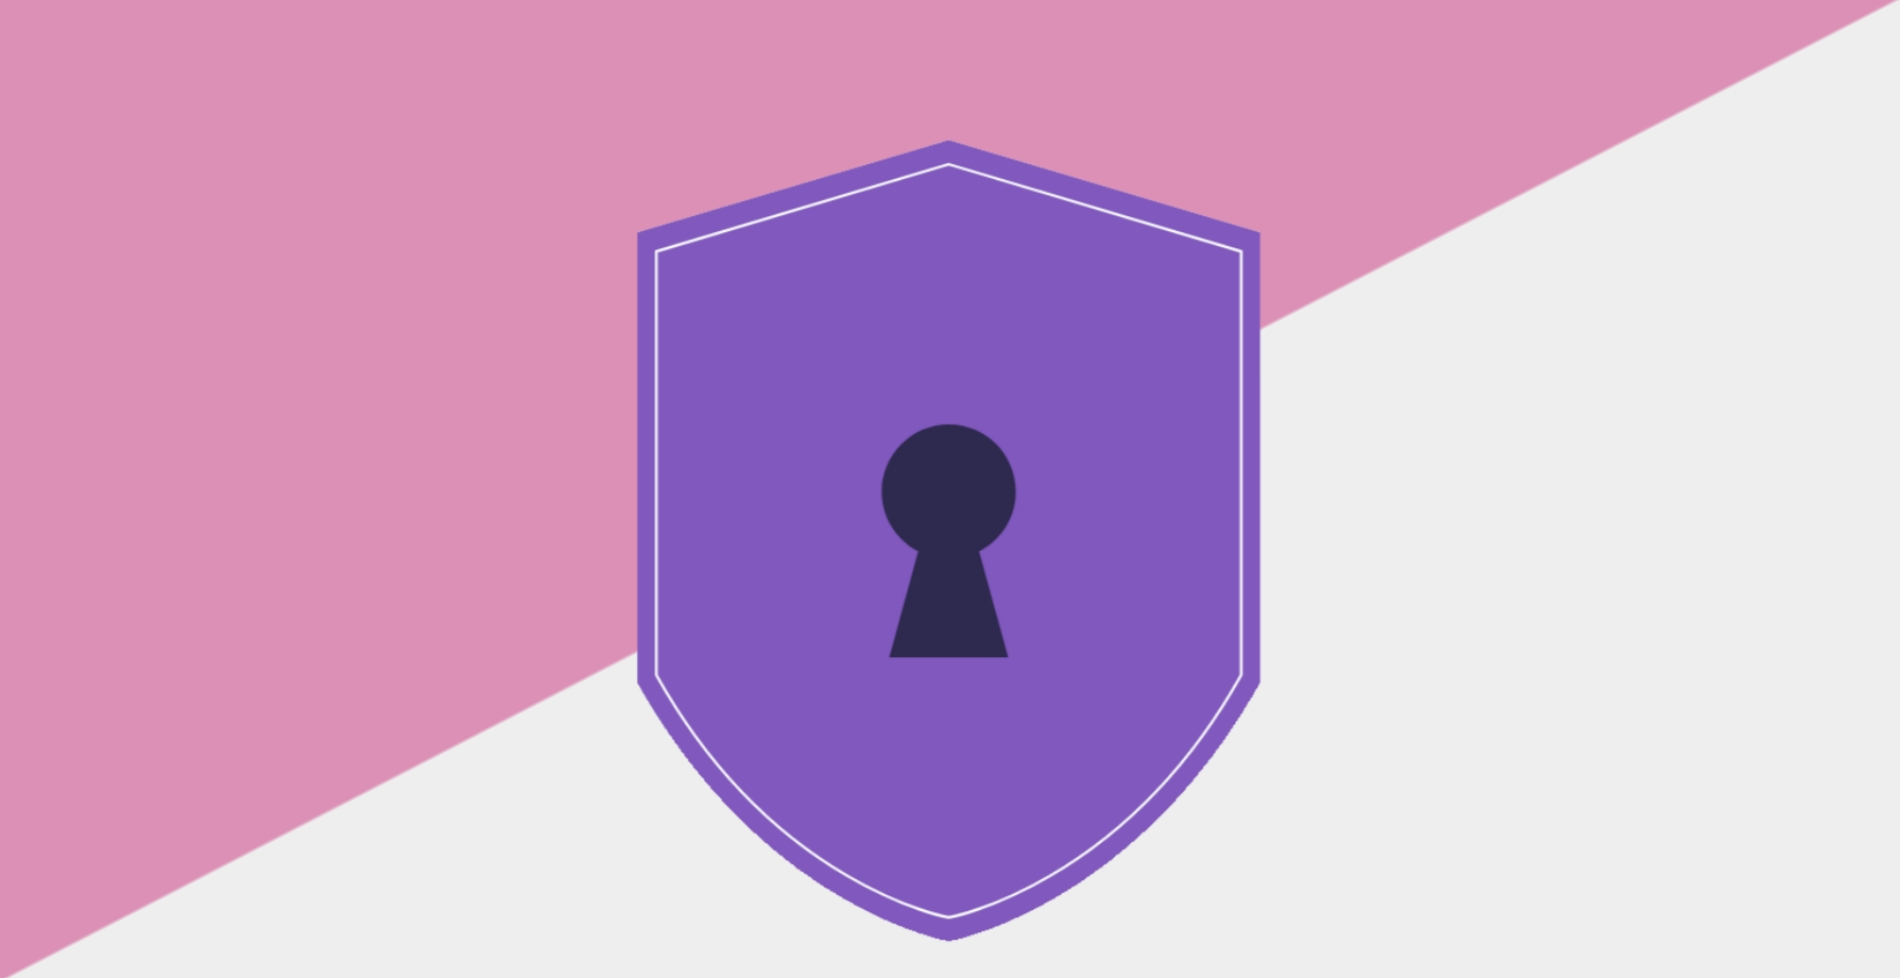
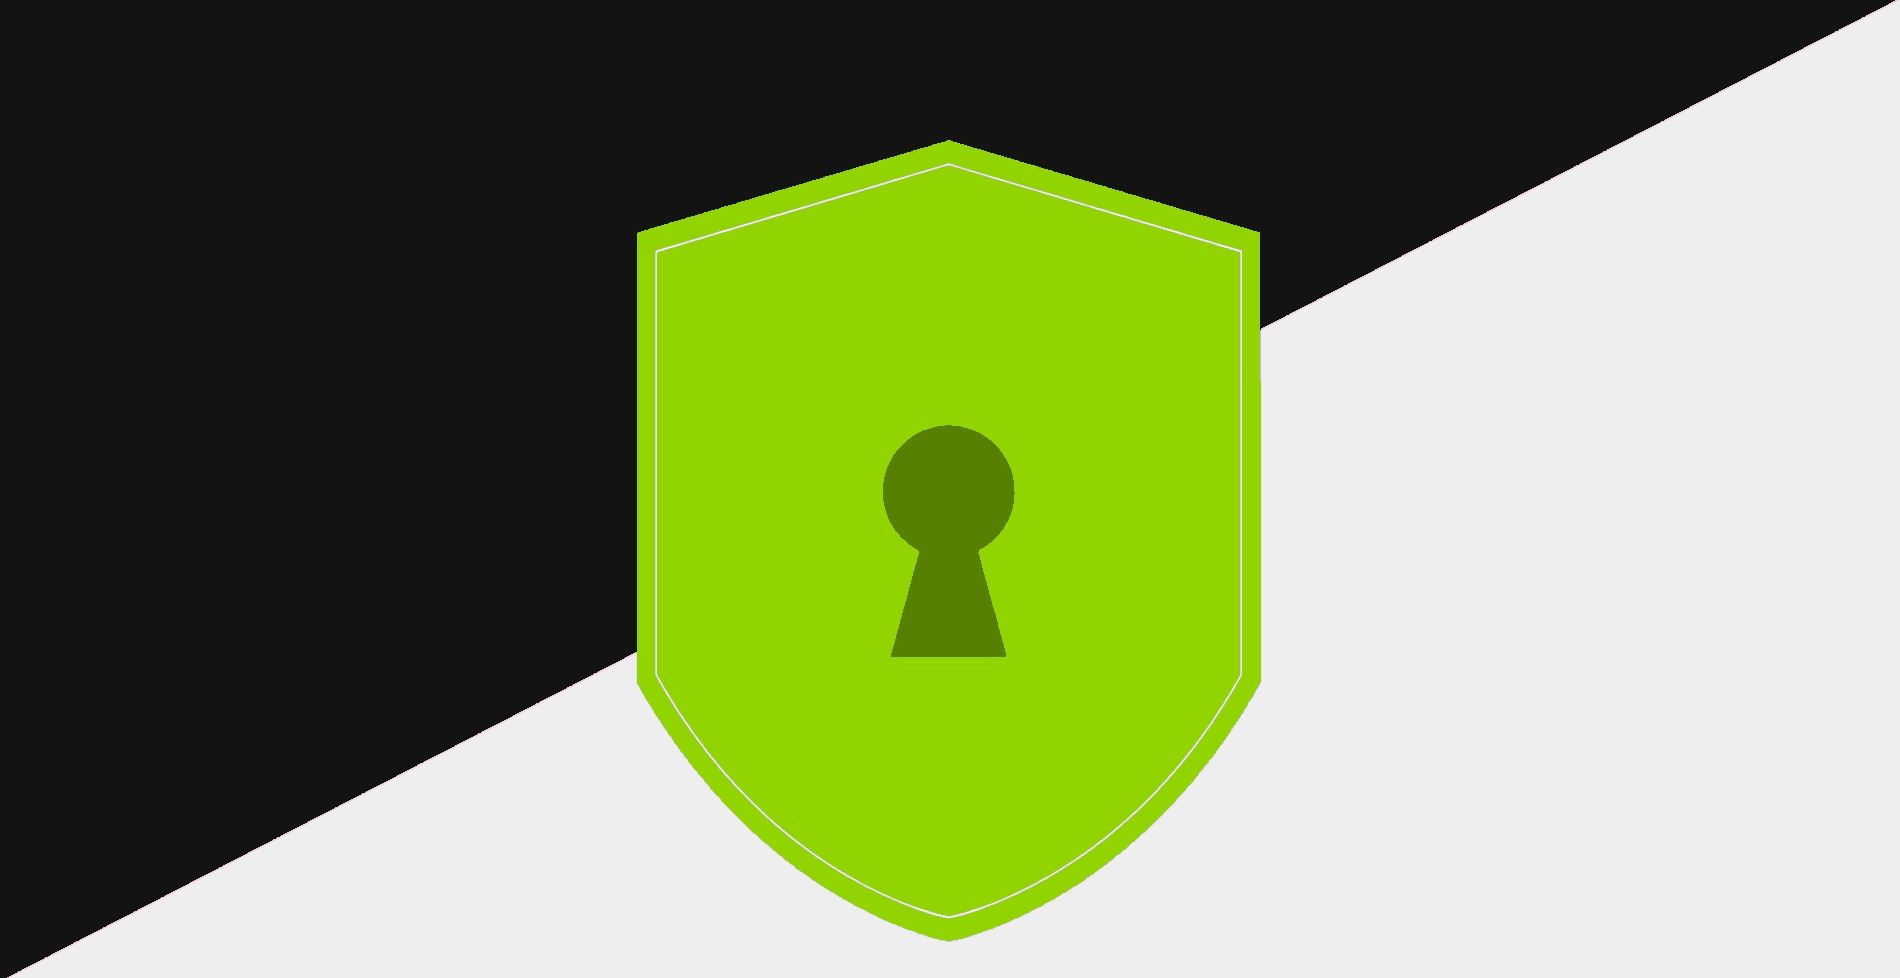
homepage color changes

diff --git a/project website/css/style.css b/project website/css/style.css
@@ -12,10 +12,10 @@ a {
   -webkit-transition: .3s all ease;
   -o-transition: .3s all ease;
   transition: .3s all ease;
-  color: #8058be; }
+  color: #92d400; }
   a:hover {
     text-decoration: none;
-    color: #8058be; }
+    color: #92d400; }
 
 h1, h2, h3, h4, h5,
 .h1, .h2, .h3, .h4, .h5 {
@@ -24,7 +24,7 @@ h1, h2, h3, h4, h5,
   color: #000; }
 
 .text-primary {
-  color: #8058be !important; }
+  color: #92d400 !important; }
 
 
 .ftco-navbar-light {
@@ -111,7 +111,7 @@ h1, h2, h3, h4, h5,
       padding-bottom: 0.7rem !important;
       color: #000 !important; }
       .ftco-navbar-light.scrolled .nav-link.active {
-        color: #8058be !important; }
+        color: #92d400 !important; }
     .ftco-navbar-light.scrolled.awake {
       margin-top: 0px;
       -webkit-transition: .3s all ease-out;
@@ -156,7 +156,7 @@ h1, h2, h3, h4, h5,
       bottom: 0;
       left: 0;
       right: 0;
-      background: #8058be;
+      background: #92d400;
       height: 2px;
       content: " "; }
   .ftco-cover.overlay {
@@ -220,12 +220,12 @@ h1, h2, h3, h4, h5,
     -webkit-box-shadow: none;
     box-shadow: none; }
   .btn.btn-primary {
-    background: #8058be;
-    border-color: #8058be;
+    background: #92d400;
+    border-color: #92d400;
     color: #fff; }
     .btn.btn-primary:hover, .btn.btn-primary:focus, .btn.btn-primary:active {
-      border-color: #6940a5;
-      background: #6940a5; }
+      border-color: #7ab300;
+      background: #7ab300; }
   .btn.btn-outline-white {
     border-color: rgba(255, 255, 255, 0.2);
     background: none; }
@@ -267,7 +267,7 @@ textarea {
   visibility: hidden; }
 
 .bg-primary {
-  background: #8058be !important; }
+  background: #92d400 !important; }
 
   .ftco-section .ftco-heading,
   .ftco-footer .ftco-heading {
@@ -296,7 +296,7 @@ textarea {
   .ftco-footer a {
     color: rgba(255, 255, 255, 0.3); }
     .ftco-footer a:hover {
-      color: #8058be; }
+      color: #92d400; }
   .ftco-footer .ftco-heading {
     font-size: 24px; }
   .ftco-footer .ftco-heading-2 {
@@ -313,7 +313,7 @@ textarea {
     font-size: 14px;
     margin-top: -16px;
     right: 0;
-    background: #8058be;
+    background: #92d400;
     color: #fff;
     padding: 2px 10px;
     position: absolute;
@@ -367,12 +367,12 @@ textarea {
   .footer-small-nav > li a {
     margin: 0 10px 10px 0; }
     .footer-small-nav > li a:hover, .footer-small-nav > li a:focus {
-      color: #8058be; }
+      color: #92d400; }
 
 .media .ftco-icon {
   width: 100px; }
   .media .ftco-icon span {
-    color: #8058be; }
+    color: #92d400; }
 
 .ftco-media {
   background: #fff;
@@ -406,7 +406,7 @@ textarea {
     .ftco-owl .owl-nav .owl-next {
       position: absolute;
       font-size: 30px;
-      background: #8058be;
+      background: #92d400;
       color: #fff;
       padding: 10px;
       line-height: 0; }
@@ -429,7 +429,7 @@ textarea {
         display: inline-block;
         margin: 5px 7px; }
       .ftco-owl .owl-dots .owl-dot.active span {
-        background: #8058be; }
+        background: #92d400; }
   .ftco-owl:hover .owl-nav {
     visibility: visible;
     opacity: 1; }
@@ -442,7 +442,7 @@ textarea {
   display: block;
   font-size: 72px;
   font-weight: bold;
-  color: #8058be; }
+  color: #92d400; }
 
 .ftco-counter .ftco-label {
   font-size: 12px;
@@ -565,13 +565,13 @@ textarea {
 }
 
 .badge-outline-primary {
-  border:  1px solid #8058be;
-  color: #8058be;
+  border:  1px solid #92d400;
+  color: #92d400;
 }
 
 .badge-outline-primary:hover {
-  border:  1px solid #8058be;
-  background-color: #8058be;
+  border:  1px solid #92d400;
+  background-color: #92d400;
   color: #fff;
 }
 
@@ -582,11 +582,11 @@ textarea {
 }
 
 .btn-link {
-  color: #8058be!important;
+  color: #92d400!important;
 }
 
 .btn-link:hover {
-  color: #6940a5!important;
+  color: #7ab300!important;
 }
 
 .navbar-not-home .navbar-nav > .nav-item > .nav-link {
@@ -598,7 +598,7 @@ textarea {
 }
 
 a.text-primary:focus, a.text-primary:hover {
-  color: #6940a5!important;
+  color: #7ab300!important;
 }
 
 .badge-colector{background-color: #33ccff;}

diff --git a/project website/index.html b/project website/index.html
@@ -24,21 +24,21 @@
     
     <nav class="navbar navbar-expand-lg navbar-dark ftco_navbar bg-dark ftco-navbar-light" id="ftco-navbar">
       <div class="container">
-        <a class="navbar-brand" href="index.html">Secure(UA)ll</a>
+        <a class="navbar-brand nav-link" href="#">Secure(UA)ll</a>
         <button class="navbar-toggler" type="button" data-toggle="collapse" data-target="#ftco-nav" aria-controls="ftco-nav" aria-expanded="false" aria-label="Toggle navigation">
           <span class="oi oi-menu"></span> Menu
         </button>
 
         <div class="collapse navbar-collapse" id="ftco-nav">
           <ul class="navbar-nav ml-auto">
-            <li class="nav-item active"><a href="#section-home" class="nav-link">Home</a></li>
-            <li class="nav-item"><a href="#section-about" class="nav-link">About</a></li>
-            <li class="nav-item"><a href="#section-features" class="nav-link">Goals</a></li>
-            <li class="nav-item"><a href="#section-team" class="nav-link">Team</a></li>
-            <li class="nav-item"><a href="#section-calendar" class="nav-link">Calendar</a></li>
-            <li class="nav-item"><a href="#section-communication" class="nav-link">Communication</a></li>
-            <li class="nav-item"><a href="LogBook.html" class="nav-link">Log-book</a></li>
-            <li class="nav-item"><a href="Documentation.html" class="nav-link b">Documentation</a></li>
+            <li class="nav-item active my-auto"><a href="#section-home" class="nav-link">Home</a></li>
+            <li class="nav-item my-auto"><a href="#section-about" class="nav-link">About</a></li>
+            <li class="nav-item my-auto"><a href="#section-features" class="nav-link">Goals</a></li>
+            <li class="nav-item my-auto"><a href="#section-team" class="nav-link">Team</a></li>
+            <li class="nav-item my-auto"><a href="#section-calendar" class="nav-link">Calendar</a></li>
+            <li class="nav-item my-auto"><a href="#section-communication" class="nav-link">Communication</a></li>
+            <li class="nav-item my-auto"><a href="LogBook.html" class="nav-link">Log-book</a></li>
+            <li class="nav-item my-auto"><a href="Documentation.html" class="nav-link b">Documentation</a></li>
           </ul>
         </div>
       </div>
@@ -49,8 +49,8 @@
       <div class="container">
         <div class="row align-items-center justify-content-center text-center ftco-vh-100">
           <div class="col-md-10">
-            <h1 class="ftco-heading ftco-animate">Security Exposure Sentinel</h1>
-            <h2 class="h5 ftco-subheading mb-5 ftco-animate">For University of Aveiro </h2>
+            <h1 class="ftco-heading ftco-animate">Security Exposure<br/>Sentinel</h1>
+            <h2 class="h5 ftco-subheading mb-5 ftco-animate">University of Aveiro </h2>
           </div>
         </div>
       </div>
@@ -84,7 +84,7 @@
         </div>
         <div class="row no-gutters align-items-center ftco-animate">
           <div class="col-md-4 order-md-3 mb-md-0">
-            <img src="images/spy.jpg" alt="Free Template by Free-Template.co" class="img-fluid">
+            <img src="images/spy.png" alt="Free Template by Free-Template.co" class="img-fluid">
           </div>
           <div class="col-md-8 p-md-5 order-md-1">
             <h3 class="h3 mb-4">Problem</h3>
